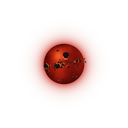
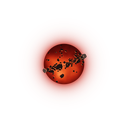
Understanding Power: white dwarf at 25,21, blue star at 29,19; more rocks
Swaps the south ridge's one-hex stars as D asked, and roughly doubles the
rocks in front of each one-hex debris disk star.

Claude-Session: https://claude.ai/code/session_01KWbvMMLN5NAhmMXV85hSNU

Changed region(s): [[0.3125, 0.3438, 0.6875, 0.6562]]

diff --git a/tools/make_barriers.py b/tools/make_barriers.py
@@ -625,15 +625,15 @@ DISK_STARS = {
 # Single-hex stars behind a debris disk, drawn like the four-hex ones on the
 # 128 px canvas of the plain star (^Yx). The smaller ones are dwarfs.
 SMALL_DISK_STARS = [
-    ("orange", dict(d=60, n_rocks=110, rock=0.7, cols=[(70, 22, 4), (160, 62, 12), (225, 118, 32), (252, 172, 75), (255, 225, 160)],
+    ("orange", dict(d=60, n_rocks=240, rock=0.7, cols=[(70, 22, 4), (160, 62, 12), (225, 118, 32), (252, 172, 75), (255, 225, 160)],
                     glow_rgb=(240, 115, 30), reach=5, cells=5, grain=16, limb=0.7, mottle=0.5, smooth=0.3,
                     rim=((255, 175, 95), (210, 150, 100)), body=((30, 22, 16), (92, 72, 58)))),
-    ("red", dict(d=40, n_rocks=60, rock=0.7, reach=5)),
+    ("red", dict(d=40, n_rocks=140, rock=0.7, reach=5)),
     # bluer than the blue giant: no white in its ramp
-    ("blue", dict(d=60, n_rocks=110, rock=0.7, cols=[(8, 20, 110), (25, 60, 205), (60, 110, 255), (115, 160, 255), (185, 205, 255)],
+    ("blue", dict(d=60, n_rocks=240, rock=0.7, cols=[(8, 20, 110), (25, 60, 205), (60, 110, 255), (115, 160, 255), (185, 205, 255)],
                   glow_rgb=(45, 85, 255), reach=5, cells=8, grain=24, limb=0.4, boost=1.15, mottle=0.3, smooth=0.5,
                   rim=((170, 200, 255), (120, 145, 215)), body=((10, 14, 34), (58, 64, 92)))),
-    ("white", dict(d=40, n_rocks=60, rock=0.7, cols=[(150, 155, 178), (200, 205, 226), (230, 233, 246), (246, 248, 255), (255, 255, 255)],
+    ("white", dict(d=40, n_rocks=140, rock=0.7, cols=[(150, 155, 178), (200, 205, 226), (230, 233, 246), (246, 248, 255), (255, 255, 255)],
                    glow_rgb=(215, 222, 255), reach=5, cells=8, grain=24, limb=0.35, boost=1.1, mottle=0.25, smooth=0.55,
                    rim=((255, 255, 255), (200, 202, 218)), body=((22, 22, 30), (80, 80, 92)))),
 ]

diff --git a/tools/make_understanding_power.py b/tools/make_understanding_power.py
@@ -41,7 +41,7 @@ T.update({"D": "Yqd", "S": "Yqd^Yx", "R": "Yqr", "U": "Yqr^Yxp",
           "M": "Ys^Ysg", "J": "Ys^Ysb",
           "A": "Ys^Yxd1", "Z": "Ys^Yxd2", "F": "Ys^Yxd3", "G": "Ys^Yxd4"})
 WESNOTH.update({ch: "Md^Xm" for ch in "DSRUPTEXMJAZFG"})
-SOUTH = {"M": "J", "A": "F", "Z": "G"}     # the south half's own stars
+SOUTH = {"M": "J", "A": "G", "Z": "F"}     # the south half's own stars
 # Hexes opened up since, in the north half like BARRIERS (the south half
 # follows): bits of the west cliffs, the spiral, the long ridge's east end
 # and the stream banks.
@@ -68,7 +68,7 @@ BARRIERS = {
     # them (9, 7) open space before, so the star has room
     "M": [(9, 7), (10, 7), (11, 7), (10, 8)],
     # and two one-hex stars in it, an orange one and a red dwarf (in the
-    # south a blue one and a white dwarf)
+    # south a white dwarf and a blue one)
     "A": [(13, 7)],
     "Z": [(9, 9)],
 }
